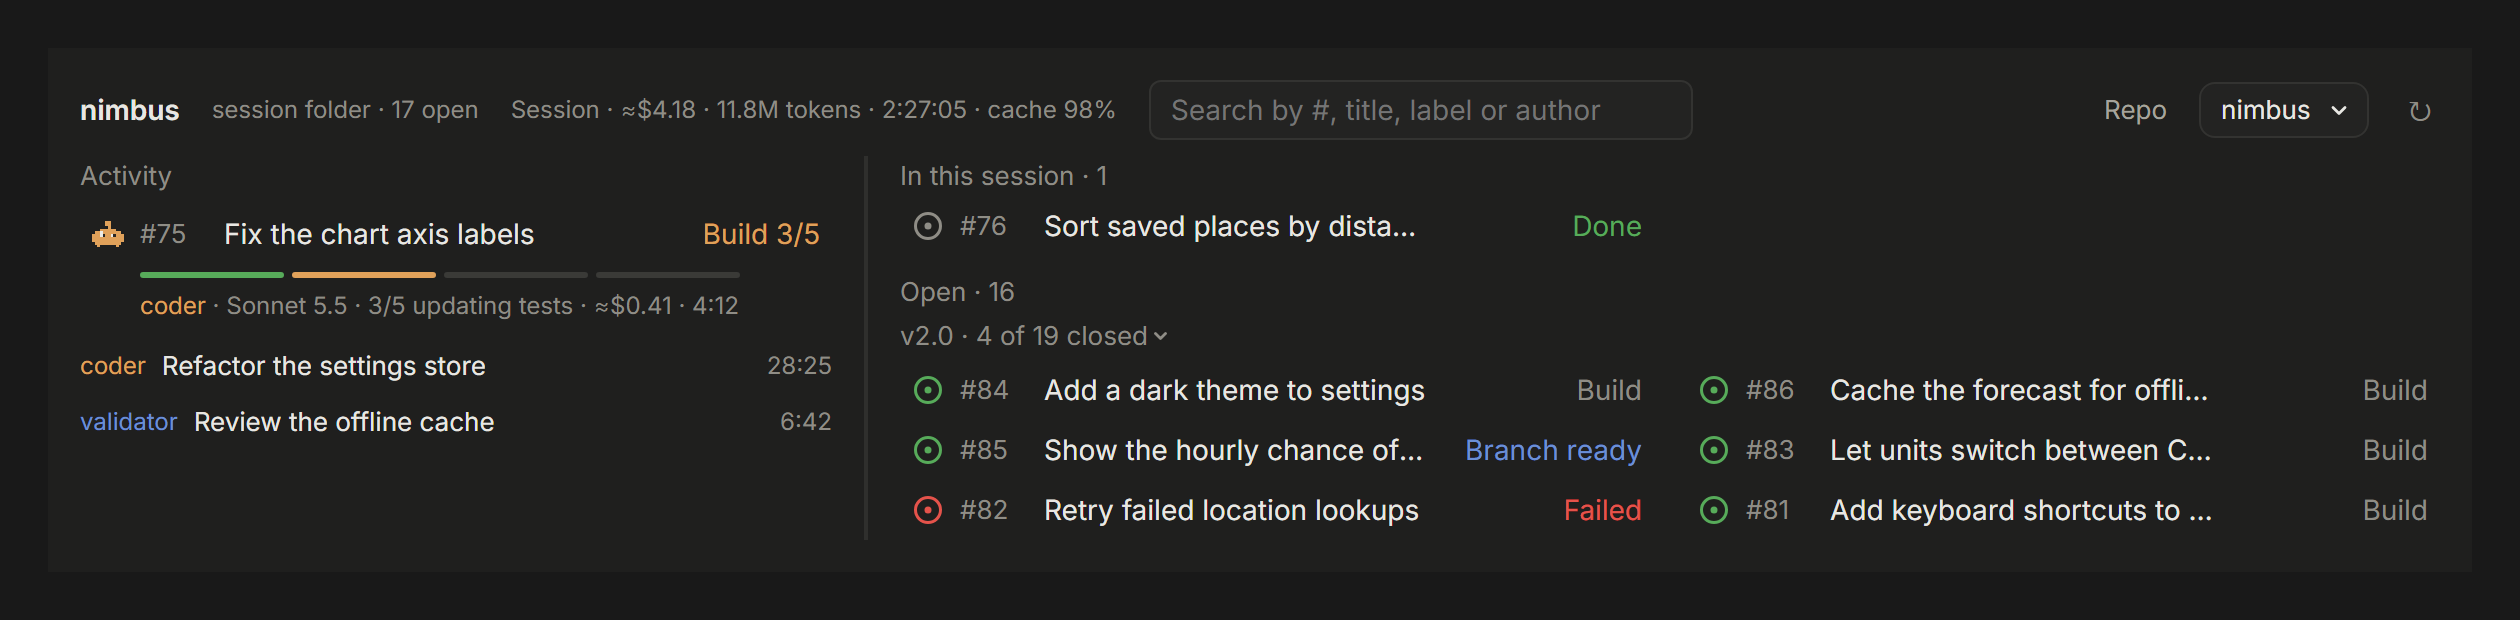
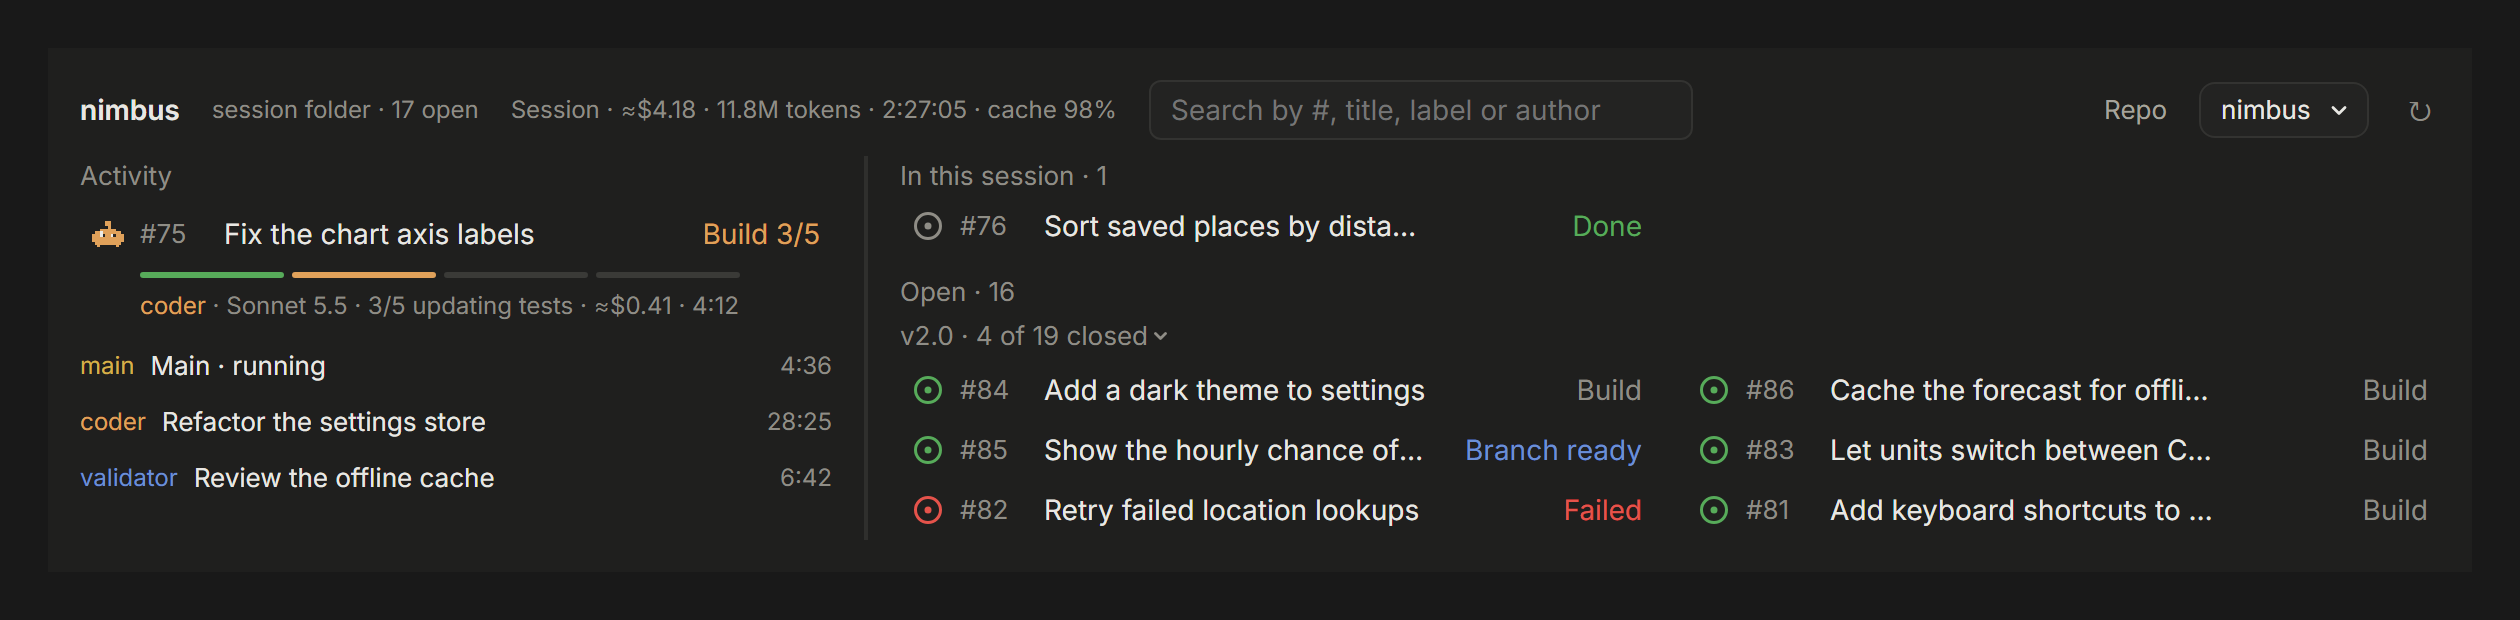
README: screenshots show the Main row
The pane and docked screenshots, rendered from the design canvas with mock
data, now include the Main row and its Activity line.

diff --git a/README.md b/README.md
@@ -12,7 +12,7 @@
 <p align="center">
   <picture>
     <source srcset="media/pane-dark.png" media="(prefers-color-scheme: dark)">
-    <img src="media/pane-light.png" width="488" alt="The Tonir pane: the repo nimbus and the session's cost line, a search field, an issue building with its pipeline and crew, two other agents with their bars, this session's issue marked Done, and the open issues of milestone v2.0 with Build, Branch ready and Failed on the right.">
+    <img src="media/pane-light.png" width="488" alt="The Tonir pane: the repo nimbus and the session's cost line, a search field, an issue building with its pipeline and crew, the Main row for the session's own agent (model, effort, context, cost, running), two other agents with their bars, this session's issue marked Done, and the open issues of milestone v2.0 with Build, Branch ready and Failed on the right.">
   </picture>
 </p>
 
@@ -60,7 +60,7 @@ columns as fit:
 <p align="center">
   <picture>
     <source srcset="media/docked-dark.png" media="(prefers-color-scheme: dark)">
-    <img src="media/docked-light.png" width="100%" alt="The pane docked below the chat: one header line with the repo, the cost line and the search field; an Activity column with a building issue and two agents; and the issues of this session and of milestone v2.0 in two columns.">
+    <img src="media/docked-light.png" width="100%" alt="The pane docked below the chat: one header line with the repo, the cost line and the search field; an Activity column with a building issue, the Main line and two agents; and the issues of this session and of milestone v2.0 in two columns.">
   </picture>
 </p>
 
